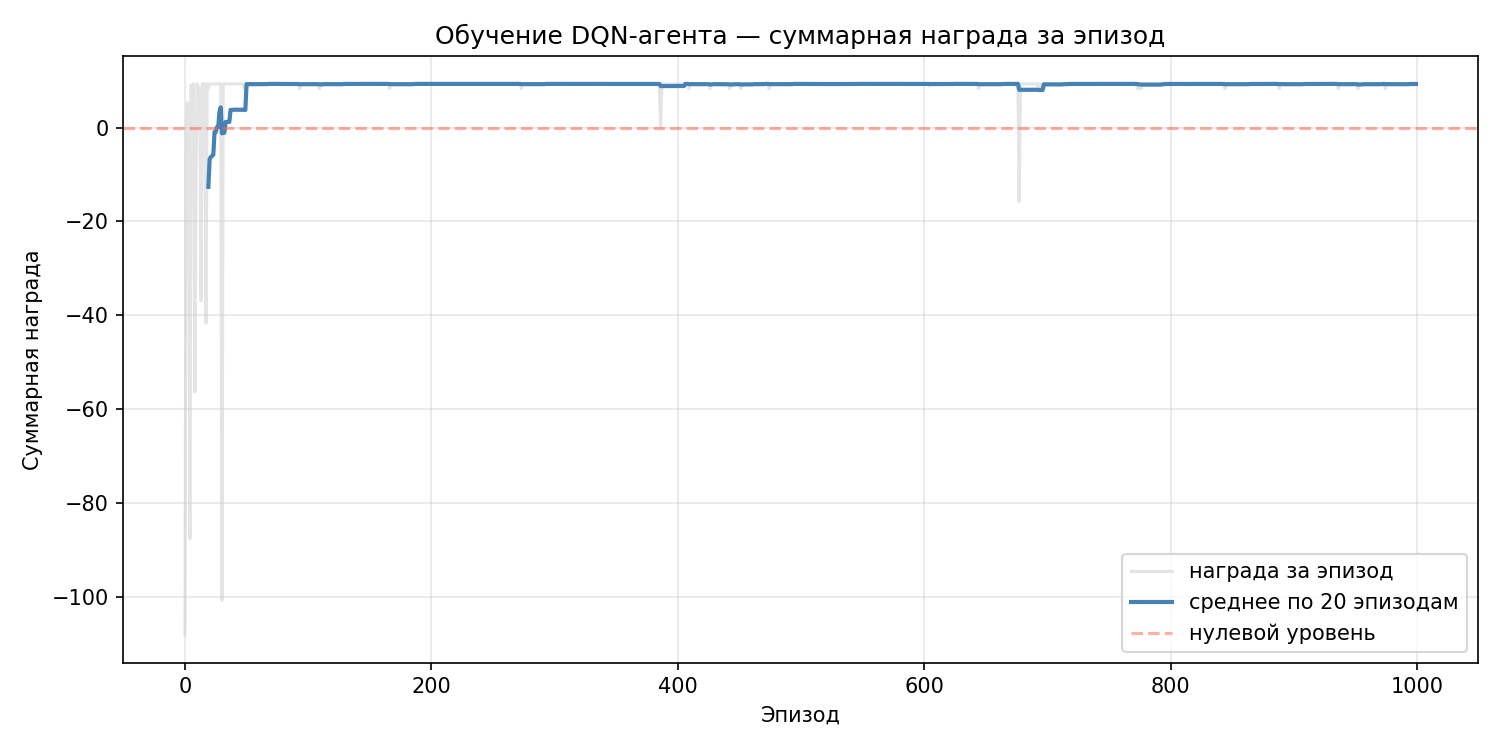
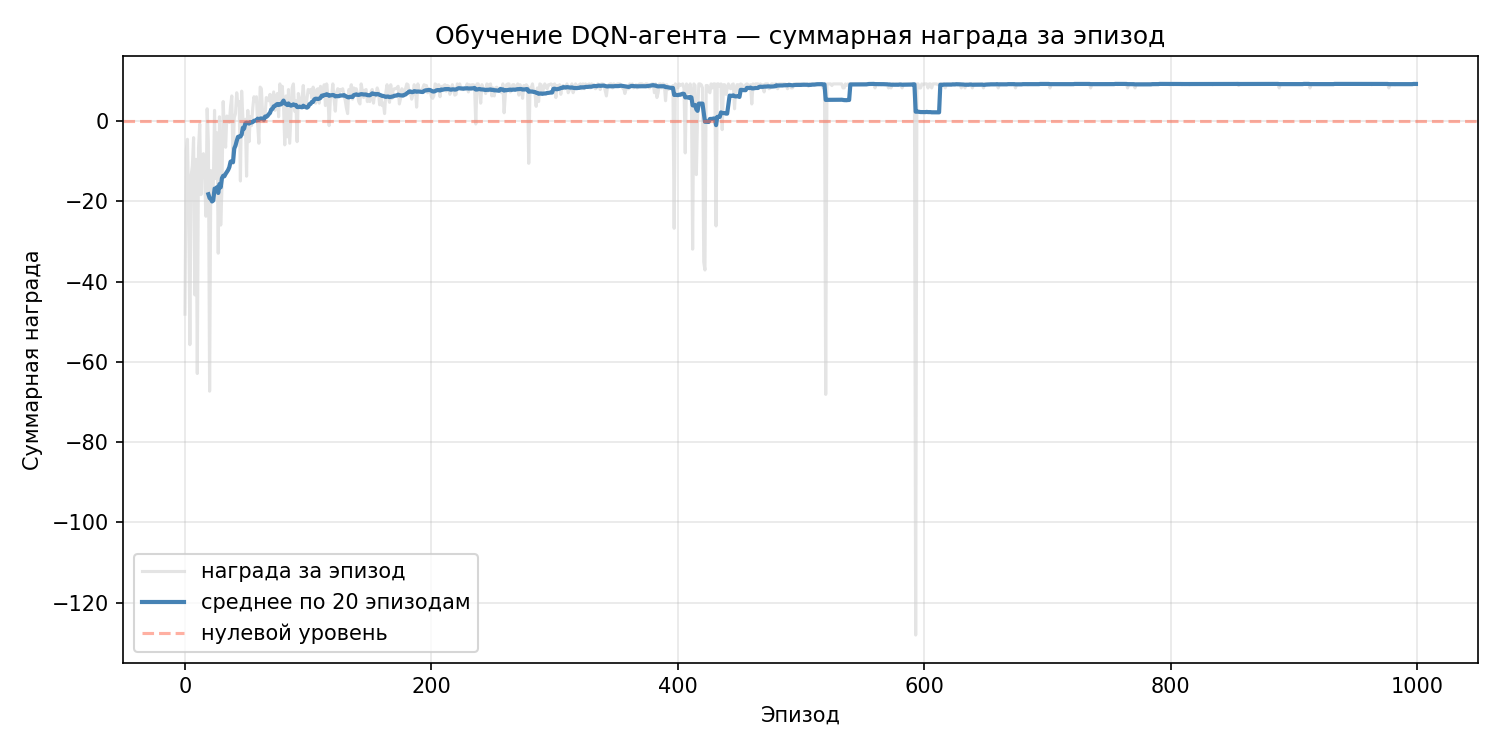
Feature: реализовал загрузку весов и обучение.

diff --git a/agents_brain.py b/agents_brain.py
@@ -130,20 +130,31 @@ class DQNAgent:
         loss.backward()
         self.optimizer.step()
 
-        # уменьшаем epsil
-        self.epsilon = max(self.epsilon_min, self.epsilon * self.epsilon_decay)
-
         # обновляем target
         self.steps_done += 1
         if self.steps_done % self.target_update_freq == 0:
             self.target_network.load_state_dict(self.main_network.state_dict())
 
-    def save(self, path: str) -> None:
-        """Сохранить веса основной сети."""
-        torch.save(self.main_network.state_dict(), path)
+    def save(self, path: str, goal_pos=None) -> None:
+        """Сохранить веса и конфигурацию цели."""
+        torch.save(
+            {"state_dict": self.main_network.state_dict(), "goal_pos": goal_pos},
+            path,
+        )
 
-    def load(self, path: str) -> None:
-        """Загрузить веса и синхронизировать target-сеть."""
-        self.main_network.load_state_dict(torch.load(path, weights_only=True))
+    def load(self, path: str):
+        """
+        Загрузить веса и синхронизировать target-сеть.
+
+        :return: сохранённая позиция цели или None (для старого формата файла).
+        """
+        checkpoint = torch.load(path, weights_only=False)
+        if isinstance(checkpoint, dict):
+            self.main_network.load_state_dict(checkpoint["state_dict"])
+            saved_goal = checkpoint.get("goal_pos")
+        else:
+            self.main_network.load_state_dict(checkpoint)
+            saved_goal = None
         self.target_network.load_state_dict(self.main_network.state_dict())
         self.epsilon = self.epsilon_min
+        return saved_goal

diff --git a/train.py b/train.py
@@ -19,10 +19,14 @@ def train(episodes=1000):
     agent = DQNAgent()
 
     if os.path.exists(WEIGHTS_FILE):
-        agent.load(WEIGHTS_FILE)
-        print(f"Найден файл весов '{WEIGHTS_FILE}' — обучение пропущено.")
-        _demo(env, agent)
-        return
+        saved_goal = agent.load(WEIGHTS_FILE)
+        if saved_goal is None or tuple(saved_goal) == env.goal_pos:
+            print(f"Найден файл весов '{WEIGHTS_FILE}' — обучение пропущено.")
+            _demo(env, agent)
+            return
+        print(f"Цель изменилась {saved_goal} → {env.goal_pos} — обучаю заново.")
+        os.remove(WEIGHTS_FILE)
+        agent = DQNAgent()
 
     episode_rewards = []
 
@@ -45,6 +49,7 @@ def train(episodes=1000):
                 break
 
         episode_rewards.append(total_reward)
+        agent.epsilon = max(agent.epsilon_min, agent.epsilon * agent.epsilon_decay)
 
         if (episode + 1) % 50 == 0:
             avg = np.mean(episode_rewards[-50:])
@@ -52,7 +57,7 @@ def train(episodes=1000):
                   f"Средняя награда (50 эп.): {avg:.2f} | "
                   f"ε = {agent.epsilon:.3f}")
 
-    agent.save(WEIGHTS_FILE)
+    agent.save(WEIGHTS_FILE, goal_pos=env.goal_pos)
     print(f"Веса сохранены в '{WEIGHTS_FILE}'")
     _save_plot(episode_rewards)
     print("График сохранён в learned_policy.png")

diff --git a/world.py b/world.py
@@ -15,8 +15,8 @@ class GridWorld:
         self.grid_size = 5
 
         # Координаты агента, финиша и стены
-        self.start_pos = (4, 0)
-        self.goal_pos = (0, 4)
+        self.start_pos = (0, 4)
+        self.goal_pos = (4, 0)
         self.wall_pos = (2, 2)
 
         self.agent_pos = self.start_pos